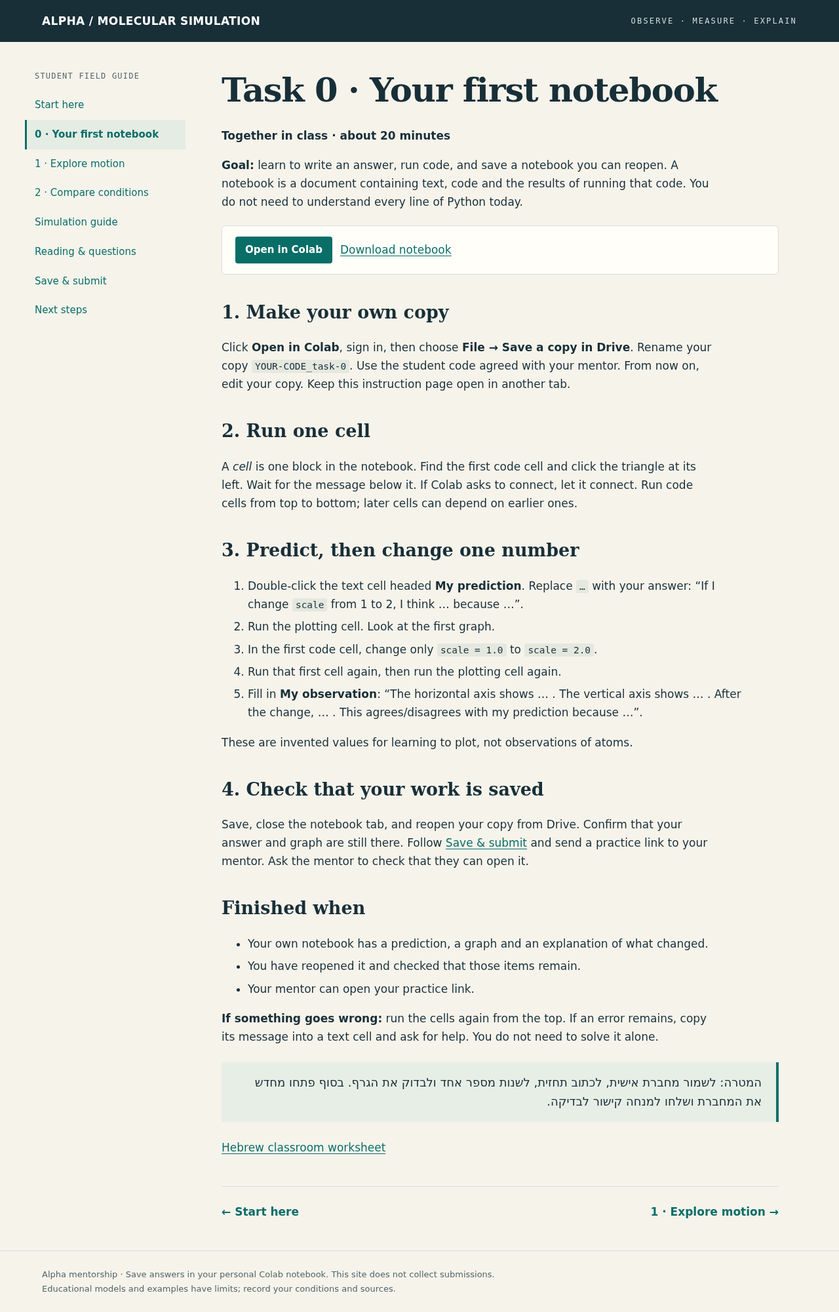
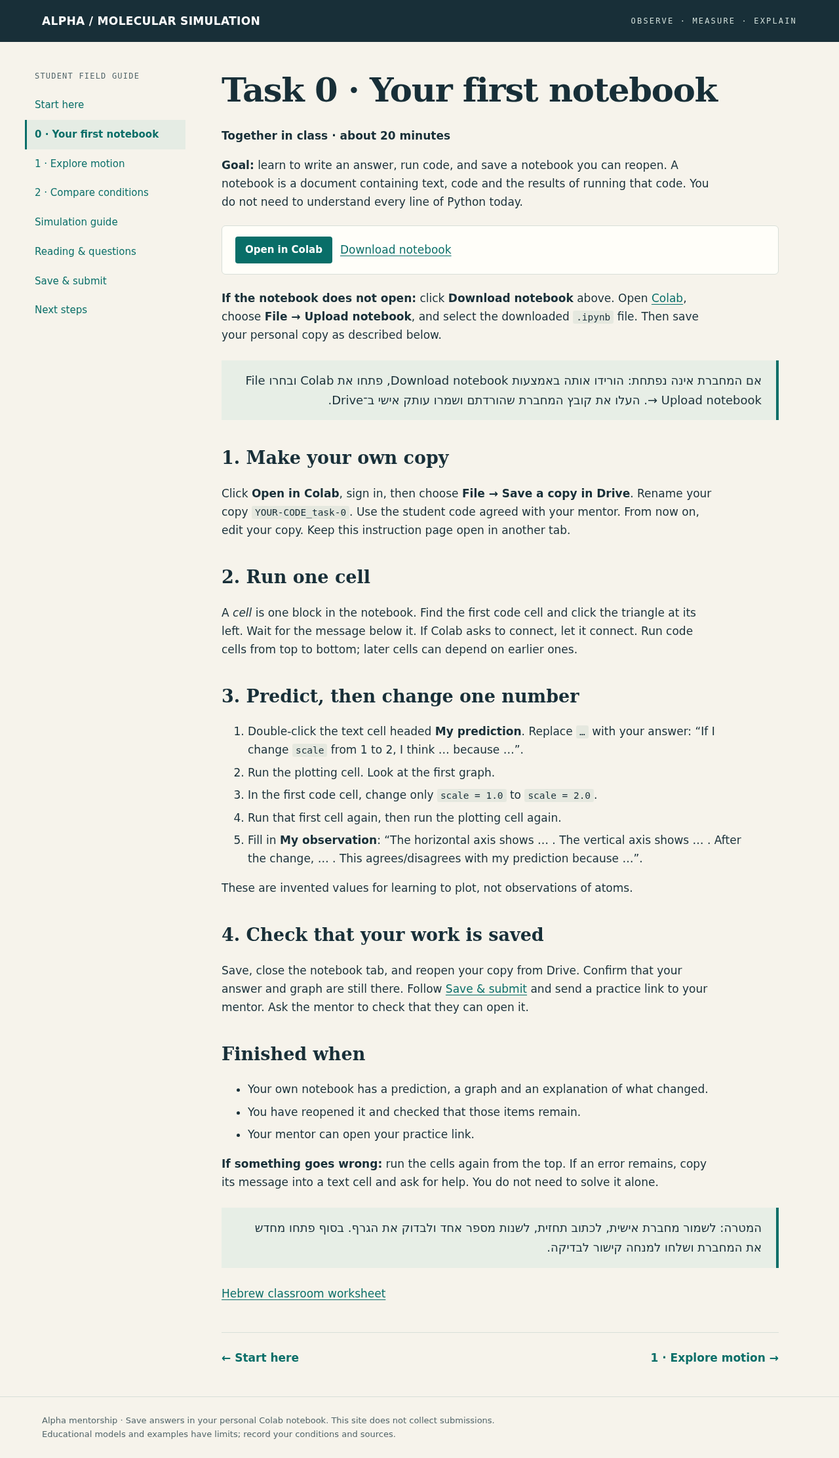
Fix GitHub source navigation and add direct Colab notebook links

diff --git a/tools/build_site.py b/tools/build_site.py
@@ -5,6 +5,17 @@ import markdown
 ROOT=Path(__file__).resolve().parent.parent
 OUT=ROOT/'dist'
 PAGES=[('index','Start here'),('task-0','0 · Your first notebook'),('task-1','1 · Explore motion'),('task-2','2 · Compare conditions'),('browser','Simulation guide'),('readings','Reading & questions'),('submit','Save & submit'),('next','Next steps')]
+DOWNLOADS=['assignments/01_first_experiment/exploration_template.md','assignments/01_first_experiment/results_template.csv','assignments/01_first_experiment/report_template.md','project/proposal_template.md','meetings/01_introduction/student_worksheet_he.md','assignments/01_first_experiment/task_he.md','readings/glossary_en_he.md','readings/questions_he.md']
+def site_target(target):
+ # Source Markdown uses real repository paths so it is also readable on GitHub.
+ path,separator,fragment=target.partition('#')
+ mapping={f'{slug}.md':f'{slug}.html' for slug,_ in PAGES}
+ mapping.update({'../../'+p:'downloads/'+Path(p).name for p in DOWNLOADS})
+ mapping.update({'../../meetings/01_introduction/slides.pdf':'presentation/slides.pdf'})
+ for source,destination in [('../assets/','assets/'),('../../data/examples/','downloads/examples/'),('../../meetings/01_introduction/presets/','presets/'),('../../meetings/01_introduction/fallback/','fallback/')]:
+  if path.startswith(source):return destination+path[len(source):]+separator+fragment
+ return mapping.get(path,path)+separator+fragment
+
 def main():
  cfg=json.loads((ROOT/'site/config.json').read_text())
  if OUT.exists():shutil.rmtree(OUT)
@@ -14,7 +25,7 @@ def main():
  for name in ['slides.html','slides.pdf']:
   shutil.copy2(ROOT/'meetings/01_introduction'/name,presentation/name)
  for p in (ROOT/'notebooks').glob('*.ipynb'):shutil.copy2(p,downloads/p.name)
- for p in ['assignments/01_first_experiment/exploration_template.md','assignments/01_first_experiment/results_template.csv','assignments/01_first_experiment/report_template.md','project/proposal_template.md','meetings/01_introduction/student_worksheet_he.md','assignments/01_first_experiment/task_he.md','readings/glossary_en_he.md','readings/questions_he.md']:
+ for p in DOWNLOADS:
   shutil.copy2(ROOT/p,downloads/Path(p).name)
  shutil.copytree(ROOT/'data/examples',downloads/'examples')
  for folder in ['presets','fallback']:
@@ -27,12 +38,13 @@ def main():
   return f'<div class="launch">{button}<a download href="downloads/{name}">Download notebook</a></div>'
  for idx,(slug,label) in enumerate(PAGES):
   text=(ROOT/f'site/pages/{slug}.md').read_text()
-  text=re.sub(r'\{\{notebook:([^}]+)\}\}',launch,text)
+  text=re.sub(r'\[Open in Colab\]\(https://colab\.research\.google\.com/[^\n]+\)\n\[Download notebook\]\(\.\./\.\./notebooks/([^\)]+)\)',launch,text)
   contact=''
   if cfg.get('mentor_email'):contact+='Mentor review account: **'+html.escape(cfg['mentor_email'])+'**.\n\n'
   if cfg.get('submission_channel'):contact+='Submission channel: '+html.escape(cfg['submission_channel'])
   text=text.replace('{{contact}}',contact)
   body=markdown.markdown(text,extensions=['tables','fenced_code','md_in_html'])
+  body=re.sub(r'((?:href|src)=")([^"]+)(")',lambda m:m[1]+site_target(m[2])+m[3],body)
   nav=''.join(f'<a href="{s}.html"'+(' aria-current="page"' if s==slug else '')+f'>{html.escape(l)}</a>' for s,l in PAGES)
   prev=(f'<a href="{PAGES[idx-1][0]}.html">← {PAGES[idx-1][1]}</a>' if idx else '<span></span>')
   nxt=(f'<a href="{PAGES[idx+1][0]}.html">{PAGES[idx+1][1]} →</a>' if idx+1<len(PAGES) else '<a href="index.html">Back to start</a>')

diff --git a/tools/make_notebooks.py b/tools/make_notebooks.py
@@ -17,7 +17,10 @@ SAVE='''## Save and submit / שמירה והגשה
 שמרו עותק אישי, פתחו אותו מחדש ובדקו שהתשובות נשמרו. שיתוף מחברת אינו שיתוף אוטומטי של קובצי סביבת ההרצה.
 '''
 def notebook(name,title,cells):
- n=nbf.v4.new_notebook(cells=[md('# '+title),md(SAVE)]+cells+[md('## Reflection and revision\nWhat did you learn? What remains uncertain? What changed after feedback?\n\n**Your answer:** …')])
+ cfg=json.loads((ROOT/'site/config.json').read_text())
+ url=f"https://colab.research.google.com/github/{cfg['repository']}/blob/{cfg['branch']}/notebooks/{name}"
+ heading='# '+title+'\n\n[Open in Colab / פתיחה בקולאב]('+url+')\n\nGitHub shows a preview. To run or edit this notebook, open it in Colab and choose **File → Save a copy in Drive**.\n\nב־GitHub מוצגת תצוגה מקדימה. להרצה ולעריכה לחצו על הקישור ושמרו עותק אישי ב־Drive.'
+ n=nbf.v4.new_notebook(cells=[md(heading),md(SAVE)]+cells+[md('## Reflection and revision\nWhat did you learn? What remains uncertain? What changed after feedback?\n\n**Your answer:** …')])
  for i,cell in enumerate(n.cells): cell['id']=f'cell-{i:03d}'
  n.metadata={'kernelspec':{'display_name':'Python 3','language':'python','name':'python3'},'language_info':{'name':'python','version':'3'},'colab':{'name':name,'provenance':[]}}
  p=ROOT/'notebooks'/name;p.parent.mkdir(exist_ok=True);nbf.write(n,p)

diff --git a/tests/test_course.py b/tests/test_course.py
@@ -47,3 +47,27 @@ def test_upstream_hash_manifest():
  import hashlib
  for name,sha in manifest['sha256'].items():
   assert hashlib.sha256((R/'vendor/lennard_jones_fluid_lab'/name).read_bytes()).hexdigest()==sha
+
+def test_source_pages_links_work_on_github():
+ for p in (R/'site/pages').glob('*.md'):
+  source=p.read_text()
+  assert '{{notebook:' not in source
+  targets=re.findall(r'\]\(([^)]+)\)|(?:src|href)="([^"]+)"',source)
+  for markdown_target,html_target in targets:
+   target=markdown_target or html_target
+   if '://' in target or target.startswith(('#','mailto:','data:')):continue
+   assert (p.parent/target.split('#')[0]).exists(),(p,target)
+
+def test_notebook_launches_in_source_and_site():
+ cfg=json.loads((R/'site/config.json').read_text())
+ for p in (R/'notebooks').glob('*.ipynb'):
+  n=nbformat.read(p,as_version=4);nbformat.validate(n)
+  url=f"https://colab.research.google.com/github/{cfg['repository']}/blob/{cfg['branch']}/notebooks/{p.name}"
+  assert url in n.cells[0].source
+  pages=[s for s in (R/'site/pages').glob('*.md') if f'../../notebooks/{p.name}' in s.read_text()]
+  assert pages,p.name
+  for source in pages:
+   built=(R/'dist'/f'{source.stem}.html').read_text()
+   assert f'class="button" href="{url}"' in built
+   assert f'download href="downloads/{p.name}"' in built
+  assert (R/'dist/downloads'/p.name).read_bytes()==p.read_bytes()

diff --git a/site/pages/index.md b/site/pages/index.md
@@ -4,7 +4,7 @@ A first research project in molecular simulation.
 Watch how simple rules produce motion. Make a prediction. Collect observations.
 Then explain what the evidence supports — and what remains uncertain.
 
-<div class="hero-art" aria-label="Illustration of ordered and irregular particle arrangements"><img src="assets/particles.svg" alt="Model illustration: ordered particles beside an irregular arrangement. These are not measured phase classifications."></div>
+<div class="hero-art" aria-label="Illustration of ordered and irregular particle arrangements"><img src="../assets/particles.svg" alt="Model illustration: ordered particles beside an irregular arrangement. These are not measured phase classifications."></div>
 
 ## Your first hour
 | Minutes | Together in class |
@@ -15,14 +15,14 @@ Then explain what the evidence supports — and what remains uncertain.
 | 30–50 | Open, edit, run, save and share a Colab notebook |
 | 50–60 | Find your home tasks and practise submitting work |
 
-[המצגת בעברית / Hebrew presentation](presentation/slides.html) · [Download PDF](presentation/slides.pdf)
+[המצגת בעברית / Hebrew presentation](https://yaminbens.github.io/alpha-mentorship/presentation/slides.html) · [Download PDF](../../meetings/01_introduction/slides.pdf)
 
 ## Your route through the project
-1. [Task 0: your first notebook](task-0.html) — begin together in class.
-2. [Task 1: watch what changes](task-1.html) — 20–30 minutes at home; save a prediction, two screenshots and observations.
-3. [Task 2: measure and compare](task-2.html) — allow 60–90 minutes; collect four runs, fill the table and explain one graph.
-4. [Read and ask questions](readings.html) — develop your explanation.
-5. [Save and submit](submit.html) — share your work for feedback.
+1. [Task 0: your first notebook](task-0.md) — begin together in class.
+2. [Task 1: watch what changes](task-1.md) — 20–30 minutes at home; save a prediction, two screenshots and observations.
+3. [Task 2: measure and compare](task-2.md) — allow 60–90 minutes; collect four runs, fill the table and explain one graph.
+4. [Read and ask questions](readings.md) — develop your explanation.
+5. [Save and submit](submit.md) — share your work for feedback.
 
 Bring a laptop and charger. Check that your Google account can use Colab. No prior
 programming or local installation is required for the first meeting.
@@ -34,6 +34,6 @@ Each task button opens a notebook with headings and blanks to fill in. Save your
 copy first. You may write in Hebrew or English. Follow the tasks in order; later and
 optional notebooks are not part of this first homework. Your mentor will give the due date.
 
-Prefer a document? Download the [Task 1 worksheet](downloads/exploration_template.md)
-or [Task 2 report template](downloads/report_template.md). These are plain text files:
+Prefer a document? Download the [Task 1 worksheet](../../assignments/01_first_experiment/exploration_template.md)
+or [Task 2 report template](../../assignments/01_first_experiment/report_template.md). These are plain text files:
 open them and copy their contents into a document.

diff --git a/README.md b/README.md
@@ -5,6 +5,29 @@ meeting, a guided particle simulation, Colab practice and independent work at ho
 
 **[Student website](https://yaminbens.github.io/alpha-mentorship/)** · **[GitHub repository](https://github.com/yaminbens/alpha-mentorship)**
 
+## Open the notebooks in Colab / פתיחת המחברות
+
+**GitHub displays a preview. Use the links below to run and edit in Colab.**
+Then choose **File → Save a copy in Drive** and work in your personal copy.
+
+ב־GitHub מוצגת תצוגה מקדימה של המחברת. לפתיחה בקולאב לחצו על הקישור המתאים
+בטבלה, התחברו לחשבון Google ושמרו עותק אישי באמצעות **File → Save a copy in Drive**.
+
+| Activity | Open in Colab |
+|---|---|
+| **Task 0 — Classroom introduction / התחילו כאן** | [Open Task 0](https://colab.research.google.com/github/yaminbens/alpha-mentorship/blob/main/notebooks/00_getting_started.ipynb) |
+| Task 1 — Explore and record | [Open Task 1](https://colab.research.google.com/github/yaminbens/alpha-mentorship/blob/main/notebooks/10_home_explore.ipynb) |
+| Task 2 — Compare conditions | [Open Task 2](https://colab.research.google.com/github/yaminbens/alpha-mentorship/blob/main/notebooks/11_home_compare.ipynb) |
+| Later — First simulation | [Open simulation](https://colab.research.google.com/github/yaminbens/alpha-mentorship/blob/main/notebooks/01_first_simulation.ipynb) |
+| Later — Analyse browser data | [Open analysis](https://colab.research.google.com/github/yaminbens/alpha-mentorship/blob/main/notebooks/02_analyse_browser_data.ipynb) |
+| Later — Structure and motion | [Open measurements](https://colab.research.google.com/github/yaminbens/alpha-mentorship/blob/main/notebooks/03_measure_structure_and_motion.ipynb) |
+| Optional — Information controls | [Open information controls](https://colab.research.google.com/github/yaminbens/alpha-mentorship/blob/main/notebooks/04_information_controls.ipynb) |
+| Optional — Prediction controls | [Open prediction controls](https://colab.research.google.com/github/yaminbens/alpha-mentorship/blob/main/notebooks/05_prediction_controls.ipynb) |
+
+If a link fails, use **Download notebook** on the corresponding student website
+page, open [Colab](https://colab.research.google.com/), and choose
+**File → Upload notebook** to upload the `.ipynb` file. Save a personal Drive copy.
+
 ## Start here
 - [Mentor facilitation guide](mentor/facilitation_guide.md)
 - [Detailed Hebrew plan for November 18](meetings/01_introduction/facilitator_plan_he.md) and [printable guide](meetings/01_introduction/facilitator_plan_he.pdf)

diff --git a/site/pages/browser.md b/site/pages/browser.md
@@ -5,7 +5,7 @@ off, no added bonds, no anchored particles and no fixed-temperature particles.
 Lengths and times use reduced model units; temperatures are not automatically kelvin.
 
 ## Load a reproducible starting state
-1. Download [ordered_initial.txt](presets/ordered_initial.txt) from the course page or use the file in
+1. Download [ordered_initial.txt](../../meetings/01_introduction/presets/ordered_initial.txt) from the course page or use the file in
    `meetings/01_introduction/presets/`.
 2. Pause the simulator. Open **Data**, select **All atoms**, paste the file's complete text into the data
    box and click **Input state**. Keep a copy of the file you loaded.
@@ -52,11 +52,11 @@ an automated browser rehearsal. Use them as labelled examples if access fails.
 ## Recorded demonstration
 These are actual short browser-model observations, not phase classifications.
 
-<figure><img src="fallback/low.png" alt="Low-energy observation of an ordered cluster"><figcaption>Low-energy observation. Source: Schroeder browser simulation; course rehearsal.</figcaption></figure>
-<figure><img src="fallback/high.png" alt="High-energy observation with a less ordered arrangement"><figcaption>High-energy observation from the same model and box. No equilibrium phase assignment.</figcaption></figure>
-<figure><img src="fallback/demonstration.gif" alt="Recorded particle motion after high-energy preparation"><figcaption>Accelerated recording of the external model; not a live simulation.</figcaption></figure>
+<figure><img src="../../meetings/01_introduction/fallback/low.png" alt="Low-energy observation of an ordered cluster"><figcaption>Low-energy observation. Source: Schroeder browser simulation; course rehearsal.</figcaption></figure>
+<figure><img src="../../meetings/01_introduction/fallback/high.png" alt="High-energy observation with a less ordered arrangement"><figcaption>High-energy observation from the same model and box. No equilibrium phase assignment.</figcaption></figure>
+<figure><img src="../../meetings/01_introduction/fallback/demonstration.gif" alt="Recorded particle motion after high-energy preparation"><figcaption>Accelerated recording of the external model; not a live simulation.</figcaption></figure>
 
 
-[Download measured example averages](downloads/examples/window_averages.csv) · [Example provenance](downloads/examples/metadata.json)
+[Download measured example averages](../../data/examples/window_averages.csv) · [Example provenance](../../data/examples/metadata.json)
 
 If using these observations instead of your own run, explicitly label the source in your notebook.

diff --git a/site/pages/task-2.md b/site/pages/task-2.md
@@ -5,7 +5,8 @@
 what it shows. You will also replay one condition to check your procedure.
 You do not need to write simulation code.
 
-{{notebook:11_home_compare.ipynb}}
+[Open in Colab](https://colab.research.google.com/github/yaminbens/alpha-mentorship/blob/main/notebooks/11_home_compare.ipynb)
+[Download notebook](../../notebooks/11_home_compare.ipynb)
 
 ## 1. Save your worksheet and write a prediction
 Save a copy as `YOUR-CODE_task-2`. Fill in the prediction and method sections before
@@ -13,7 +14,7 @@ collecting results. Keep your prediction even if the results surprise you.
 
 > When I add more energy, I predict … . I will check this by measuring … .
 
-Use a fresh copy of [ordered_initial.txt](presets/ordered_initial.txt) for every run.
+Use a fresh copy of [ordered_initial.txt](../../meetings/01_introduction/presets/ordered_initial.txt) for every run.
 Keep N = 64, box side = 12, gravity = 0, time step = 0.005, and the original model
 settings. Do not add bonds, anchor particles, or fix their temperature.
 
@@ -46,7 +47,7 @@ A `.tsv` file is a plain text table whose columns are separated by tabs.
 
 Each run has 1000 preparation steps, 1000 settling steps and 1000 measured steps.
 The measurement window lasts 5 model time units, with 40 readings at 0.125-unit
-intervals. See [the control guide](browser.html) if a control is unfamiliar.
+intervals. See [the control guide](browser.md) if a control is unfamiliar.
 
 ## 3. Turn each data file into two averages
 In your Task 2 notebook, find **Calculate one run's averages**. For each run:
@@ -94,11 +95,11 @@ Keep unexpected results and explain them rather than changing values to fit a pr
   and a short conclusion.
 - You saved four raw data files and screenshots, plus the graph and results CSV.
 - You reopened the notebook and checked that your mentor can access its supporting files.
-- You sent the link using [Save & submit](submit.html).
+- You sent the link using [Save & submit](submit.md).
 
-[Fill-in report template](downloads/report_template.md) ·
-[Blank results CSV](downloads/results_template.csv) ·
-[Hebrew instructions](downloads/task_he.md)
+[Fill-in report template](../../assignments/01_first_experiment/report_template.md) ·
+[Blank results CSV](../../assignments/01_first_experiment/results_template.csv) ·
+[Hebrew instructions](../../assignments/01_first_experiment/task_he.md)
 
 **Stuck?** Save what you have. Write the step number, what you expected, and what happened;
 include the error message if there is one. Send that with your notebook. Missing data

diff --git a/site/pages/task-1.md b/site/pages/task-1.md
@@ -4,13 +4,14 @@
 **Question:** what happens to the motion and arrangement of atoms when we add energy?
 Today you will describe what you see. The numerical measurements come in Task 2.
 
-{{notebook:10_home_explore.ipynb}}
+[Open in Colab](https://colab.research.google.com/github/yaminbens/alpha-mentorship/blob/main/notebooks/10_home_explore.ipynb)
+[Download notebook](../../notebooks/10_home_explore.ipynb)
 
 ## 1. Get ready
 Save your own copy as `YOUR-CODE_task-1`. It already contains a worksheet: replace
 `…` with your answers. You may answer in English or Hebrew. Short sentences are fine.
 Open [the simulator](https://physics.weber.edu/schroeder/md/) in a second tab and keep
-[the control guide](browser.html) available.
+[the control guide](browser.md) available.
 
 ## 2. Write a prediction before running
 Complete both sentences in the notebook:
@@ -21,7 +22,7 @@ Complete both sentences in the notebook:
 A prediction can turn out to be wrong. Keep it so you can compare it with your observation.
 
 ## 3. Observe the low-energy condition
-1. Open [ordered_initial.txt](presets/ordered_initial.txt) and copy all its text.
+1. Open [ordered_initial.txt](../../meetings/01_introduction/presets/ordered_initial.txt) and copy all its text.
 2. Pause the simulator. Open **Data**, choose **All atoms**, paste that text into its data box, and click **Input state**.
 3. Check **N = 64**, box side **12**, gravity **0**, and time step **0.005**.
    N means number of particles; the box side is a length in the model's own units.
@@ -59,12 +60,12 @@ A still image cannot show speed, and a short run cannot establish a phase.
 ## Finished when
 Your saved notebook contains your original prediction, settings, two observations,
 two screenshots or accessible image links, and one question for the mentor.
-Save the images separately in Drive and share them too. Follow [Save & submit](submit.html).
+Save the images separately in Drive and share them too. Follow [Save & submit](submit.md).
 
-[Download the fill-in worksheet](downloads/exploration_template.md).
+[Download the fill-in worksheet](../../assignments/01_first_experiment/exploration_template.md).
 If Colab is unavailable, copy this worksheet into a document and use the same prompts.
 
-**If the simulator will not load:** use the [recorded demonstration](browser.html),
+**If the simulator will not load:** use the [recorded demonstration](browser.md),
 label your work “provided demonstration, not my run”, and write what you can and
 cannot observe. Send the access problem to your mentor.
 

diff --git a/site/pages/task-0.md b/site/pages/task-0.md
@@ -5,7 +5,14 @@
 A notebook is a document containing text, code and the results of running that code.
 You do not need to understand every line of Python today.
 
-{{notebook:00_getting_started.ipynb}}
+[Open in Colab](https://colab.research.google.com/github/yaminbens/alpha-mentorship/blob/main/notebooks/00_getting_started.ipynb)
+[Download notebook](../../notebooks/00_getting_started.ipynb)
+
+**If the notebook does not open:** click **Download notebook** above. Open
+[Colab](https://colab.research.google.com/), choose **File → Upload notebook**,
+and select the downloaded `.ipynb` file. Then save your personal copy as described below.
+
+<div lang="he" dir="rtl" class="hebrew">אם המחברת אינה נפתחת: הורידו אותה באמצעות Download notebook, פתחו את Colab ובחרו File → Upload notebook. העלו את קובץ המחברת שהורדתם ושמרו עותק אישי ב־Drive.</div>
 
 ## 1. Make your own copy
 Click **Open in Colab**, sign in, then choose **File → Save a copy in Drive**.
@@ -30,7 +37,7 @@ These are invented values for learning to plot, not observations of atoms.
 
 ## 4. Check that your work is saved
 Save, close the notebook tab, and reopen your copy from Drive. Confirm that your
-answer and graph are still there. Follow [Save & submit](submit.html) and send a
+answer and graph are still there. Follow [Save & submit](submit.md) and send a
 practice link to your mentor. Ask the mentor to check that they can open it.
 
 ## Finished when
@@ -43,4 +50,4 @@ copy its message into a text cell and ask for help. You do not need to solve it 
 
 <div lang="he" dir="rtl" class="hebrew">המטרה: לשמור מחברת אישית, לכתוב תחזית, לשנות מספר אחד ולבדוק את הגרף. בסוף פתחו מחדש את המחברת ושלחו למנחה קישור לבדיקה.</div>
 
-[Hebrew classroom worksheet](downloads/student_worksheet_he.md)
+[Hebrew classroom worksheet](../../meetings/01_introduction/student_worksheet_he.md)

diff --git a/site/pages/next.md b/site/pages/next.md
@@ -7,16 +7,21 @@ atoms change across energy preparations?** Define neighbours and the observation
 lag before collecting a larger dataset.
 
 ## Later notebooks
-{{notebook:01_first_simulation.ipynb}}
-{{notebook:02_analyse_browser_data.ipynb}}
-{{notebook:03_measure_structure_and_motion.ipynb}}
+[Open in Colab](https://colab.research.google.com/github/yaminbens/alpha-mentorship/blob/main/notebooks/01_first_simulation.ipynb)
+[Download notebook](../../notebooks/01_first_simulation.ipynb)
+[Open in Colab](https://colab.research.google.com/github/yaminbens/alpha-mentorship/blob/main/notebooks/02_analyse_browser_data.ipynb)
+[Download notebook](../../notebooks/02_analyse_browser_data.ipynb)
+[Open in Colab](https://colab.research.google.com/github/yaminbens/alpha-mentorship/blob/main/notebooks/03_measure_structure_and_motion.ipynb)
+[Download notebook](../../notebooks/03_measure_structure_and_motion.ipynb)
 
 ## Optional extensions
 These are not required for the first assignment.
-{{notebook:04_information_controls.ipynb}}
-{{notebook:05_prediction_controls.ipynb}}
+[Open in Colab](https://colab.research.google.com/github/yaminbens/alpha-mentorship/blob/main/notebooks/04_information_controls.ipynb)
+[Download notebook](../../notebooks/04_information_controls.ipynb)
+[Open in Colab](https://colab.research.google.com/github/yaminbens/alpha-mentorship/blob/main/notebooks/05_prediction_controls.ipynb)
+[Download notebook](../../notebooks/05_prediction_controls.ipynb)
 
 The extension examples use labelled synthetic data or known-answer probability laws.
 They are not physical validation of mutual-information or thermodynamic estimates.
 
-[Research outline template](downloads/proposal_template.md)
+[Research outline template](../../project/proposal_template.md)

diff --git a/STATUS.md b/STATUS.md
@@ -26,6 +26,14 @@
 - Research question options, provisional plan, proposal/report/poster templates and timeline.
 
 ## Validation
+On 2026-11-18, fixed source-page links that incorrectly pointed to generated HTML
+inside GitHub (for example site/pages/task-0.html). Source pages now link to actual
+Markdown and repository assets; the site builder maps these to published paths.
+All eight notebooks and the README now include direct Colab launch links. Added
+regression checks for source links, notebook buttons and matching downloads.
+Only the first Markdown cell changed in each notebook; code and remaining cells
+are unchanged. Five relevant checks and 16 browser/page layout checks passed.
+
 The revised presentation distinguishes saved particle coordinates from synthetic
 neighbour diagrams. Font provenance and license are in vendor/fonts/. Scientific
 plots remain available in the appendix. No new simulation was run for the redesign.

diff --git a/mentor/troubleshooting.md b/mentor/troubleshooting.md
@@ -11,6 +11,8 @@
 | Mentor gets access denied | Share with the exact designated account and test the link |
 | Plot cannot be interpreted | Check axes, units, example-versus-student data and preparation history |
 | GitHub template opens read-only | Save a personal copy in Drive before editing |
+| GitHub shows a notebook but there is no Run button | Follow Open in Colab at the top of the notebook or use the repository README table; GitHub provides a preview |
+| Colab cannot fetch the GitHub notebook | Download the notebook from the student site, open Colab and use File → Upload notebook; then save a copy in Drive |
 
 Use help from the program mentor for account restrictions; do not request student
 passwords. Record reproducible software problems with the task and error, without
